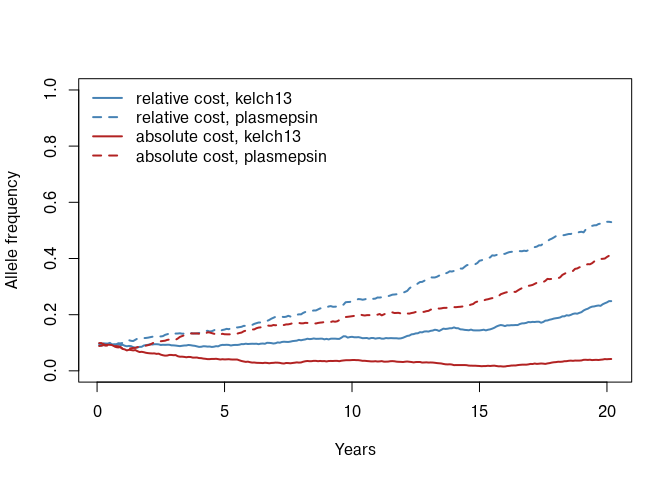
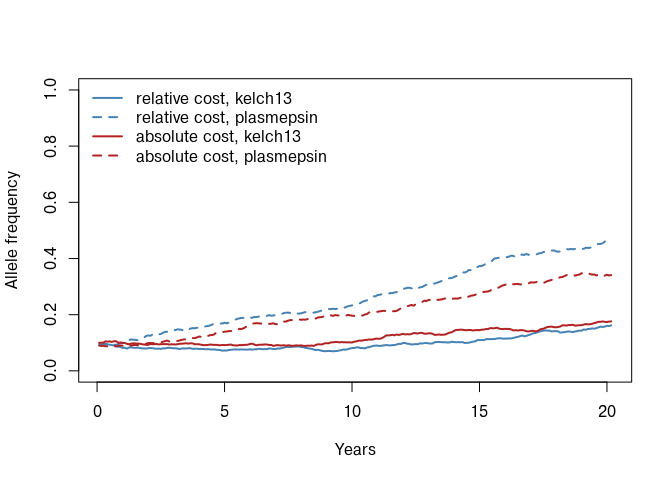
Read the fitness cost at every resistance locus
Strain::relative_contribution indexed the cost table with the bits from
the first resistance locus up to, but not including, the last one, so
the last locus never paid its cost and a drug naming more positions than
number_of_resistance_loci read past the table (the CI coverage abort in
test-findings.R). It now indexes with bitset_positions_to_ulong() over
the resistance loci, which is how drug_list_create() lays the table out
and how Drug::get_prob_of_lpf_barcode() reads the barcode.

to_ulong_range() had no other caller and goes, with the stale comment
asking for its test. test_relative_contribution() exposes the lookup to
R and the strain tests check each locus, the last one included. The
Resistance vignette is rebuilt: only the fitness-cost comparison moved.
The characterisation snapshots did not move.

diff --git a/src/strain.cpp b/src/strain.cpp
@@ -66,7 +66,9 @@ boost::dynamic_bitset<> Strain::temp_crossovers(Parameters::g_num_loci);
 
 // Work out the strain's relative onward contribution given the fitness costs in the parameters object
 double Strain::relative_contribution(const Parameters &parameters){
-  return(parameters.g_cost_of_resistance[to_ulong_range(parameters.g_resistance_loci[0],parameters.g_resistance_loci.back())]);
+  // the cost table is indexed by the bits at the resistance loci, bit j being
+  // the j-th locus, which is how drug_list_create() builds it
+  return(parameters.g_cost_of_resistance[bitset_positions_to_ulong(parameters.g_resistance_loci)]);
 }
 
 // Work out if the strain caused late parasitological failure
@@ -89,20 +91,6 @@ bool Strain::resistant_boolean(const Parameters &parameters, int drug_choice){
 // Get barcode position
 bool Strain::barcode_position(unsigned int position){
   return(m_barcode[position]);
-}
-
-// to_ulong but for range within a bitset
-unsigned long Strain::to_ulong_range(unsigned int start_bit, unsigned int end_bit){
-  
-unsigned long mask = 1;
-unsigned long result = 0;
-for (;start_bit < end_bit; ++ start_bit) {
-  if (m_barcode[start_bit])
-    result |= mask;
-  mask <<= 1;
-}
-return result;
-
 }
 
 // to_ulong but for positions in a bitset
@@ -610,4 +598,16 @@ Rcpp::List test_ibd_conversion(SEXP barcode, unsigned int bl,
 }
 
 
-// add test for to_ulong_range
+// fitness cost lookup test
+// [[Rcpp::export]]
+double test_relative_contribution(SEXP barcode, unsigned int bl,
+                                  Rcpp::IntegerVector resistance_loci,
+                                  Rcpp::NumericVector cost_of_resistance)
+{
+  Parameters::g_barcode_length = bl;
+  Parameters parameters;
+  parameters.g_resistance_loci = Rcpp::as<std::vector<unsigned int> >(resistance_loci);
+  parameters.g_cost_of_resistance = Rcpp::as<std::vector<double> >(cost_of_resistance);
+  Strain strain(sexp_to_bitset(barcode, bl));
+  return(strain.relative_contribution(parameters));
+}

diff --git a/src/registration.c b/src/registration.c
@@ -27,6 +27,7 @@ extern SEXP _magenta_test_dependent_barcode_from_PLAF(SEXP, SEXP);
 extern SEXP _magenta_test_generate_next_ibd(SEXP, SEXP, SEXP, SEXP, SEXP);
 extern SEXP _magenta_test_ibd_conversion(SEXP, SEXP, SEXP, SEXP);
 extern SEXP _magenta_test_recombinant_with_ibd(SEXP, SEXP, SEXP, SEXP, SEXP, SEXP);
+extern SEXP _magenta_test_relative_contribution(SEXP, SEXP, SEXP, SEXP);
 extern SEXP odin_itn_irs_contents(SEXP);
 extern SEXP odin_itn_irs_create(SEXP);
 extern SEXP odin_itn_irs_initial_conditions(SEXP, SEXP);
@@ -57,6 +58,7 @@ static const R_CallMethodDef CallEntries[] = {
     {"_magenta_test_generate_next_ibd",           (DL_FUNC) &_magenta_test_generate_next_ibd,           5},
     {"_magenta_test_ibd_conversion",              (DL_FUNC) &_magenta_test_ibd_conversion,              4},
     {"_magenta_test_recombinant_with_ibd",        (DL_FUNC) &_magenta_test_recombinant_with_ibd,        6},
+    {"_magenta_test_relative_contribution",       (DL_FUNC) &_magenta_test_relative_contribution,       4},
     {"odin_itn_irs_contents",                     (DL_FUNC) &odin_itn_irs_contents,                     1},
     {"odin_itn_irs_create",                       (DL_FUNC) &odin_itn_irs_create,                       1},
     {"odin_itn_irs_initial_conditions",           (DL_FUNC) &odin_itn_irs_initial_conditions,           2},

diff --git a/src/RcppExports.cpp b/src/RcppExports.cpp
@@ -134,6 +134,20 @@ BEGIN_RCPP
     return rcpp_result_gen;
 END_RCPP
 }
+// test_relative_contribution
+double test_relative_contribution(SEXP barcode, unsigned int bl, Rcpp::IntegerVector resistance_loci, Rcpp::NumericVector cost_of_resistance);
+RcppExport SEXP _magenta_test_relative_contribution(SEXP barcodeSEXP, SEXP blSEXP, SEXP resistance_lociSEXP, SEXP cost_of_resistanceSEXP) {
+BEGIN_RCPP
+    Rcpp::RObject rcpp_result_gen;
+    Rcpp::RNGScope rcpp_rngScope_gen;
+    Rcpp::traits::input_parameter< SEXP >::type barcode(barcodeSEXP);
+    Rcpp::traits::input_parameter< unsigned int >::type bl(blSEXP);
+    Rcpp::traits::input_parameter< Rcpp::IntegerVector >::type resistance_loci(resistance_lociSEXP);
+    Rcpp::traits::input_parameter< Rcpp::NumericVector >::type cost_of_resistance(cost_of_resistanceSEXP);
+    rcpp_result_gen = Rcpp::wrap(test_relative_contribution(barcode, bl, resistance_loci, cost_of_resistance));
+    return rcpp_result_gen;
+END_RCPP
+}
 // population_get_genetics_ibd_df_n
 Rcpp::List population_get_genetics_ibd_df_n(Rcpp::List param_list);
 RcppExport SEXP _magenta_population_get_genetics_ibd_df_n(SEXP param_listSEXP) {

diff --git a/src/strain.h b/src/strain.h
@@ -117,9 +117,6 @@ public:
   // Get barcode position
   bool barcode_position(unsigned int position);
   
-  // to_ulong but for range within a bitset
-  unsigned long to_ulong_range(unsigned int start_bit, unsigned int end_bit);
-  
   // to_ulong but for positions in a bitset
   unsigned long bitset_positions_to_ulong(const std::vector<unsigned int> &bit_positions);
   

diff --git a/NEWS.md b/NEWS.md
@@ -50,6 +50,9 @@
   deterministic model).
 * `Person::m_cA` is initialised, so set-up-only saves no longer carry an
   uninitialised value.
+* The fitness cost of a strain is read at every resistance locus, the last one
+  included (it was skipped, and the lookup could run past the cost table), so
+  resistance runs with a fitness cost differ from 1.3.x.
 
 ## magenta 1.3.8
 
